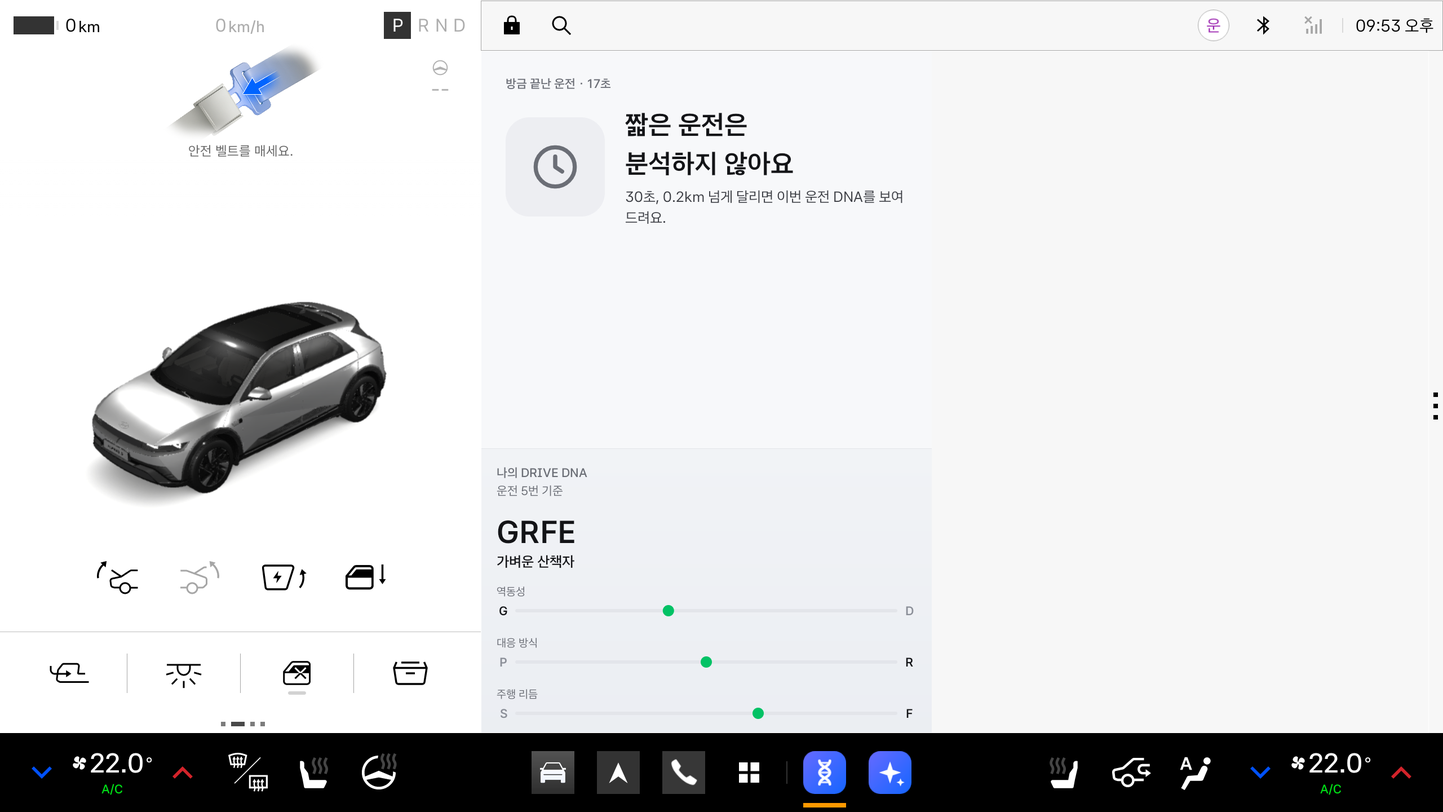
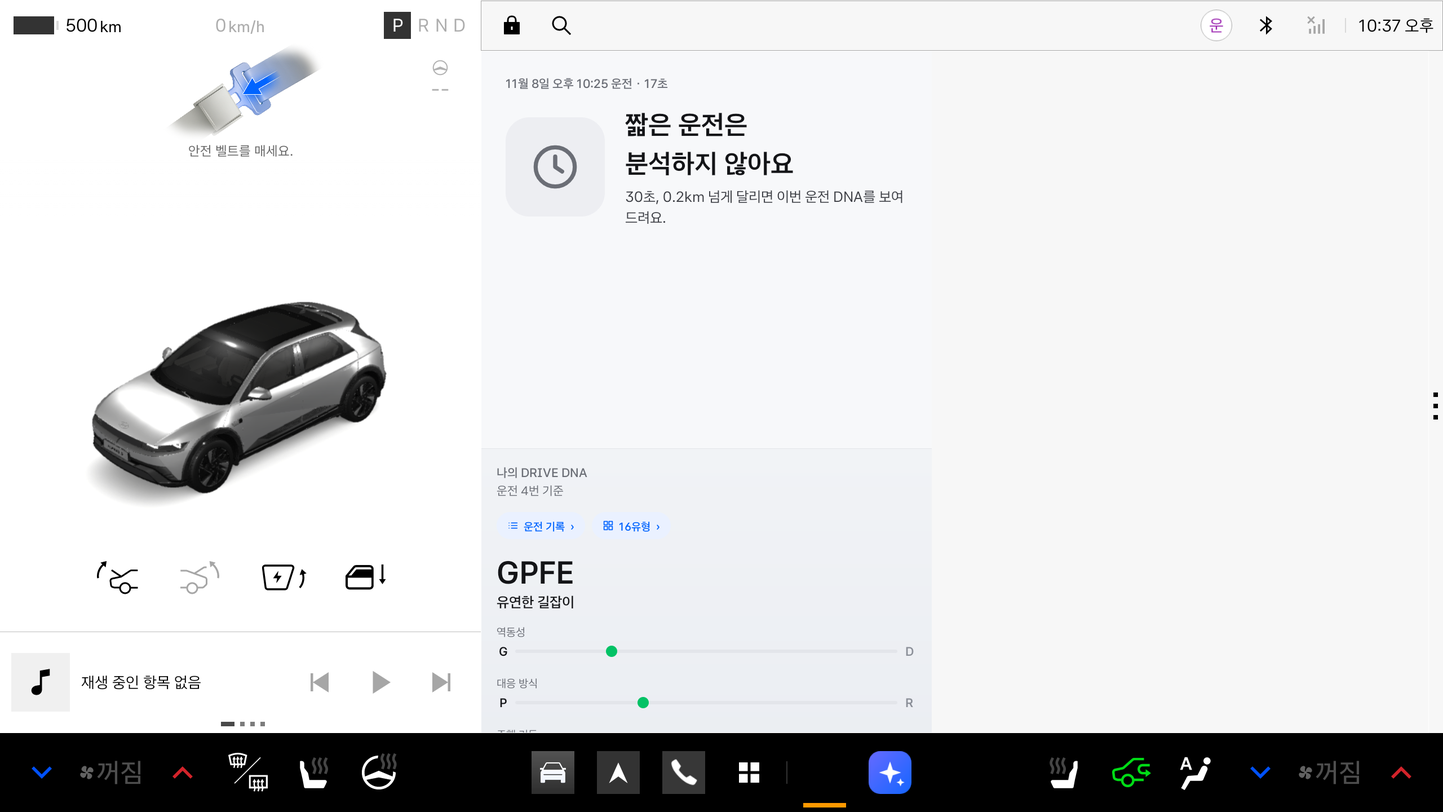
실행 중 찾은 문제 수정과 초보자용 사용설명서
- 세로 화면에서 나의 DNA 칸의 "운전 기록 ›"·"16유형 ›" 버튼을 머리 바로 밑에 둔다(맨 아래면 화면 밖으로 밀림)
- 끝난 지 10분이 지난 운전은 "방금 끝난 운전" 대신 그때 날짜·시각을 제목으로 쓴다
- 새 운전이 시작되면 지난 운전의 결과 알림을 지운다
- gentle 시나리오 설명의 소요 시간을 실제(약 2분 15초)에 맞춤
- 사용설명서.md: 네 글자 읽는 법, 화면별 설명, 판정 보류 이유, 자주 묻는 질문, 에뮬레이터 시연
- verification.md: 전체 시연(연속 실행) 결과, 실행 중 찾은 문제와 수정, 부팅 뒤 자동 시작 확인

diff --git a/app/src/main/java/kr/skku/drivedna/Screens.kt b/app/src/main/java/kr/skku/drivedna/Screens.kt
@@ -1,5 +1,6 @@
 package kr.skku.drivedna
 
+import android.content.res.Configuration
 import android.view.Gravity
 import android.view.View
 import android.view.ViewGroup.LayoutParams.WRAP_CONTENT
@@ -73,7 +74,7 @@ fun Ui.result(m: Metrics, axes: List<Axis>, diff: String?, title: String, top: V
 
 /** 짧은 운전. 기준 숫자는 [l]에서(시연용 빌드는 30초·0.2km) */
 fun Ui.short(m: Metrics, l: Limits): View = column(28,
-    small("방금 끝난 운전 · ${elapsed(m.durationMs)}"),
+    small("${driveTitle(m.endedAt)} · ${elapsed(m.durationMs)}"),
     hero(tile(R.drawable.ic_clock, Tile.GREY), "짧은 운전은\n분석하지 않아요",
         "${elapsed(l.minDriveMs)}, ${l.minDriveKm.toString().removeSuffix(".0")}km 넘게 달리면 이번 운전 DNA를 보여 드려요."),
 )
@@ -134,5 +135,9 @@ fun Ui.profile(p: Profile, driving: Boolean, onHistory: () -> Unit, onTypes: () 
         chip("운전 기록  ›", R.color.blue, R.color.blue_soft, R.drawable.ic_list).apply { setOnClickListener { onHistory() } },
         chip("16유형  ›", R.color.blue, R.color.blue_soft, R.drawable.ic_grid).apply { setOnClickListener { onTypes() } },
     ).onEach { it.isEnabled = !driving; it.alpha = if (driving) 0.4f else 1f } // 비활성 뷰는 덤프에 enabled="false"
-    return column(24, *listOfNotNull(head, type).toTypedArray(), *bars.toTypedArray(), row(12, *chips.toTypedArray()))
+    val buttons = row(12, *chips.toTypedArray())
+    // 세로 화면의 아래 칸은 낮아서, 버튼을 맨 아래에 두면 스크롤해야 보인다. 그때는 머리 바로 밑에 둔다
+    if (ctx.resources.configuration.orientation == Configuration.ORIENTATION_PORTRAIT)
+        return column(24, head, buttons, *listOfNotNull(type).toTypedArray(), *bars.toTypedArray())
+    return column(24, *listOfNotNull(head, type).toTypedArray(), *bars.toTypedArray(), buttons)
 }

diff --git a/app/src/main/java/kr/skku/drivedna/MainActivity.kt b/app/src/main/java/kr/skku/drivedna/MainActivity.kt
@@ -128,7 +128,7 @@ class MainActivity : Activity() {
         shownCode = Types.code(axes.map { it.value })
         val diff = Profile.difference(axes, Profile.of(analyzed.drop(i + 1), limits))
         val length = "${elapsed(m.durationMs)} · ${m.km.km1()}km"
-        if (openRecord == null) return ui.result(m, axes, diff, "방금 끝난 운전 · $length")
+        if (openRecord == null) return ui.result(m, axes, diff, "${driveTitle(m.endedAt)} · $length")
         val back = ui.chip("←  운전 기록", R.color.text2, R.color.chip).apply { setOnClickListener { openRecord = null; render() } }
         return ui.result(m, axes, diff, "${dayLabel(m.endedAt)} ${timeOfDay(m.endedAt)} 운전 · $length", ui.row(0, back))
     }

diff --git a/app/src/main/java/kr/skku/drivedna/Ui.kt b/app/src/main/java/kr/skku/drivedna/Ui.kt
@@ -27,6 +27,10 @@ fun dayLabel(ms: Long): String {
     return SimpleDateFormat(if (year(ms) == year(System.currentTimeMillis())) "M월 d일" else "yyyy년 M월 d일", Locale.KOREA).format(Date(ms))
 }
 
+/** 결과 제목 앞부분: 10분 안에 끝난 운전은 "방금 끝난 운전", 그 밖은 "{날짜} {시각} 운전"(앱을 나중에 다시 열었을 때) */
+fun driveTitle(endedAt: Long, now: Long = System.currentTimeMillis()) =
+    if (now - endedAt < 10 * 60_000) "방금 끝난 운전" else "${dayLabel(endedAt)} ${timeOfDay(endedAt)} 운전"
+
 /** 1분 미만은 초로: "40초", 그 밖은 "3분"(내림) */
 fun elapsed(ms: Long) = if (ms < 60_000) "${ms / 1000}초" else "${ms / 60_000}분"
 

diff --git a/app/src/test/java/kr/skku/drivedna/DnaTest.kt b/app/src/test/java/kr/skku/drivedna/DnaTest.kt
@@ -280,6 +280,13 @@ class TypesProfileCoachTest {
         assertTrue(Coach.line(calm.copy(early = 1)).startsWith("큰 회전 5번 중 4번은"))
     }
 
+    @Test fun titleSaysJustNowOnlyForRecentDrives() {
+        val now = 1_794_000_000_000
+        assertEquals("방금 끝난 운전", driveTitle(now - 5 * MINUTE, now))
+        assertTrue(driveTitle(now - 60 * MINUTE, now).endsWith(" 운전"))
+        assertFalse(driveTitle(now - 60 * MINUTE, now).startsWith("방금"))
+    }
+
     @Test fun recordsRoundTrip() {
         val a = m(0.2, 12.0).copy(endedAt = 1_794_000_000_000)
         val b = Metrics(endedAt = 5, durationMs = 15_000, km = 0.08) // 신호 없음·짧은 운전

diff --git a/app/src/main/java/kr/skku/drivedna/WatchService.kt b/app/src/main/java/kr/skku/drivedna/WatchService.kt
@@ -87,7 +87,10 @@ class WatchService : Service() {
         var changed = noSignal // 신호가 온다 = 연결됨
         noSignal = false
         val t = watcher.tracker
-        if (driving != t.notParked || recording != t.driving) { driving = t.notParked; recording = t.driving; changed = true }
+        if (driving != t.notParked || recording != t.driving) {
+            driving = t.notParked; recording = t.driving; changed = true
+            if (driving) getSystemService(NotificationManager::class.java).cancel(ID_RESULT) // "이번 운전" 알림이 지난 운전을 가리키지 않게
+        }
         if (changed) onUpdate?.invoke()
     }
 

diff --git a/사용설명서.md b/사용설명서.md
@@ -1,0 +1,200 @@
+# DRIVE DNA — 사용설명서
+
+> 운전을 마치고 P에 놓으면, 이번 운전이 어떤 성향이었는지 **네 글자**로 알려 드리는 Pleos Connect 앱이에요.
+
+![이번 운전 DNA 화면](docs/screenshots/03-result-gentle.png)
+
+## 이런 분께 맞아요
+
+- 내 운전 습관이 어떤지 궁금한 분
+- 점수를 매기는 앱은 부담스러운 분
+- 운전이 쌓이면서 내 운전이 어떻게 바뀌는지 보고 싶은 분
+
+DRIVE DNA는 운전을 **좋다·나쁘다로 가리지 않아요.** 점수도 순위도 없어요. 무엇을 보고 그렇게 판단했는지(관측 사실)를 먼저 보여 드리고, 근거가 모자라면 억지로 정하지 않아요.
+
+## 세 단계로 동작해요
+
+1. **평소처럼 운전하세요.** 주행 중에는 말하지도 화면을 바꾸지도 않아요. 주행거리, 브레이크, 핸들, 방향지시등, 배터리 같은 차 신호만 조용히 지켜봐요.
+2. **P에 놓으면 이번 운전 DNA.** 네 글자 유형과 그 근거, 한 가지 제안을 화면에 보여 드리고, 음성으로 한 번 짧게 알려 드려요.
+3. **쌓일수록 나의 DNA.** 최근 10번의 운전을 모아 "나의 DNA"를 보여 드리고, 이번 운전이 평소와 어떻게 달랐는지도 알려 드려요.
+
+## 네 글자 읽는 법
+
+네 글자는 네 가지 축을 차례로 나타내요. 축마다 두 글자 중 하나가 나와요.
+
+| 자리 | 축 | 앞 글자 | 뒤 글자 | 무엇을 보나요 |
+|---|---|---|---|---|
+| 첫째 | 역동성 | **G** 부드러움 | **D** 역동적 | 속도를 급하게 올리거나 줄인 횟수, 핸들을 빠르게 크게 돌린 횟수(10km당) |
+| 둘째 | 대응 방식 | **P** 예측형 | **R** 반응형 | 큰 회전 전에 방향지시등을 1.5초 이상 미리 켠 비율 |
+| 셋째 | 주행 리듬 | **S** 안정형 | **F** 유동형 | 달리는 동안 속도가 얼마나 자주 오르내렸는지 |
+| 넷째 | 운전 목적 | **E** 효율 | **C** 편안함 | 100km를 달린다면 쓰게 될 전기(kWh) |
+
+예를 들어 **GPSE**는 부드럽고(G), 방향지시등을 미리 켜고(P), 속도를 고르게 유지하고(S), 에너지를 아껴 쓴(E) 운전이에요. 별칭은 "차분한 계획가"예요.
+
+- **"·"는 판정 보류예요.** 근거가 모자라면 그 자리를 비워 둬요. 예를 들어 큰 회전이 거의 없던 운전은 대응 방식을 판단할 수 없어 "G·SE"처럼 나와요. 이유는 화면에 함께 적혀 있어요.
+- **막대는 어느 쪽에 가까운지 보여 줘요.** 점이 가운데에서 끝으로 갈수록 그 성향이 뚜렷해요.
+- **기준은 잠정값이에요.** 아직 많은 운전으로 검증하지 않은 값이라 화면에 "잠정 기준"이라고 적어 둬요.
+
+### 16가지 유형
+
+| | E 효율 | C 편안함 |
+|---|---|---|
+| **GPS** | GPSE 차분한 계획가 | GPSC 여유로운 크루저 |
+| **GPF** | GPFE 유연한 길잡이 | GPFC 느긋한 탐험가 |
+| **GRS** | GRSE 담백한 실속파 | GRSC 편안한 동반자 |
+| **GRF** | GRFE 가벼운 산책자 | GRFC 마음 편한 산책자 |
+| **DPS** | DPSE 정확한 페이스메이커 | DPSC 노련한 투어러 |
+| **DPF** | DPFE 민첩한 내비게이터 | DPFC 활기찬 탐험가 |
+| **DRS** | DRSE 경쾌한 실속파 | DRSC 시원한 크루저 |
+| **DRF** | DRFE 전략적 드라이버 | DRFC 자유로운 드라이버 |
+
+GPSE·GPSC·DRFE·DRFC 네 가지는 기획 보고서의 예시이고, 나머지 12가지는 이 앱이 지은 이름이에요.
+
+## 설치하고 처음 열기
+
+**필요한 것**: Pleos Connect가 들어간 차, 또는 Pleos Connect Emulator v2.1.0(Android API 34). 운전 목적 축(E/C)은 배터리 신호가 있는 전기차에서만 판정돼요.
+
+1. **설치**: 아직 Pleos App Market에는 없어서 APK 파일을 직접 설치해요. 컴퓨터에 차(또는 에뮬레이터)를 연결하고 아래를 실행하세요.
+
+   ```bash
+   adb install -r -g 앱파일.apk
+   ```
+
+   APK를 직접 만들려면 [README의 "빌드"](README.md#빌드)를 따르세요.
+2. **열기**: 앱 목록에서 **DRIVE DNA**를 누르세요. 에뮬레이터에서는 명령으로도 열 수 있어요.
+
+   ```bash
+   adb shell am start --user 10 -n kr.skku.drivedna/.MainActivity
+   ```
+
+3. **알림 허용**: 처음 열 때 알림 권한을 물어요. 허용하면 P에 놓았을 때 결과가 알림으로도 떠요.
+
+![첫 실행 화면](docs/screenshots/01-first-run.png)
+
+한 번 열어 두면 앱 화면을 닫아도 뒤에서 운전을 지켜봐요. 그동안 알림 영역에 "운전을 지켜보는 중"이 보여요. 차를 다시 켜면(부팅) 앱을 열지 않아도 알아서 시작해요.
+
+## 화면 둘러보기
+
+가로 화면은 왼쪽에 **나의 DNA**, 오른쪽에 **지금 상황**이 나와요. 세로 화면에서는 위가 지금 상황, 아래가 나의 DNA예요. 차의 라이트·다크 설정을 그대로 따라가요.
+
+### 운전 중
+
+기어가 D·N이면 Pleos가 "주행 중에는 사용할 수 없습니다"로 앱을 가리고, R이면 후방 카메라 화면이 덮어요. 앱 안에서도 "운전 중이에요"만 보이고, 나의 DNA 칸의 버튼은 흐려져 눌리지 않아요.
+
+![운전 중에는 Pleos가 앱을 가려요](docs/screenshots/02-driving.png)
+
+운전 도중에 앱을 처음 켰다면 그 운전은 기록하지 않아요("이번 운전은 기록하지 않아요. 다음 운전부터 지켜볼게요.").
+
+### P에 놓으면: 이번 운전 DNA
+
+위에서부터 이렇게 나와요.
+
+1. **작은 제목**: "방금 끝난 운전 · 2분 · 1.4km". 끝난 지 10분이 지난 뒤 앱을 열면 그 운전의 날짜와 시각이 나와요.
+2. **유형 카드**: 네 글자, 별칭, 네 글자의 이름(예: 부드러움 · 예측형 · 안정형 · 효율)
+3. **축 네 줄**: 축마다 관측 사실(예: "급가속 0번 · 급감속 0번 · 빠른 조향 0번")이 먼저, 판정 글자가 오른쪽에, 그 아래 막대가 나와요.
+4. **한 가지 제안**: 이번 운전에서 가장 두드러진 점 하나와 부드러운 제안. 특별히 두드러진 게 없으면 "눈에 띄는 급한 조작 없이 운전을 마쳤어요."
+5. **평소와 다른 점**: 나의 DNA와 크게 다른 축이 있으면 한 줄로 알려 드려요(예: "역동성이 평소보다 역동적 쪽이었어요.").
+
+음성으로 한 번 말하고(예: "이번 운전은 G P S E, 차분한 계획가 쪽이었어요."), 알림 "이번 운전 DNA: GPSE"가 떠요. 이 알림은 다음 운전을 시작하면 사라져요.
+
+![제안과 평소와 다른 점](docs/screenshots/05-result-dynamic-bottom.png)
+
+### 판정을 미룬 축
+
+근거가 모자란 축은 글자 대신 "·", 막대는 회색 점선이에요. 왜 미뤘는지 한 줄로 알려 드려요.
+
+| 이유 문장 | 이런 때 |
+|---|---|
+| 큰 회전이 적어 판정을 미뤘어요 | 핸들을 크게 돌린 회전이 적은 운전(직진 위주) |
+| 거리가 짧아 판정을 미뤘어요 | 달린 거리가 짧은 운전 |
+| 움직인 시간이 짧아 판정을 미뤘어요 | 서 있던 시간이 대부분인 운전 |
+| 배터리 사용량을 알 수 없어 판정을 미뤘어요 | 배터리 신호가 없는 차(전기차가 아님)이거나 배터리가 줄지 않은 운전 |
+| 조향 신호가 없어 / 조향·방향지시등 신호가 없어 판정을 미뤘어요 | 차가 그 신호를 주지 않을 때 |
+| 주행거리 값이 거칠어 판정을 미뤘어요 | 누적 주행거리가 아주 큰 차(아래 "자주 묻는 질문") |
+
+![판정 보류가 있는 결과](docs/screenshots/10-result-withheld.png)
+
+### 짧은 운전
+
+3분 또는 1km가 안 되는 운전은 분석하지 않아요. "짧은 운전은 분석하지 않아요"와 운전 길이만 보이고, 음성이 없으며 운전 기록 목록에도 나오지 않아요.
+
+### 나의 DNA 칸
+
+- 최근 10번의 분석된 운전을 축마다 평균 내서 보여 줘요. 운전이 한 번뿐이면 그 운전과 같아요.
+- 위에는 "운전 n번 기준", 가운데에는 네 글자와 별칭, 아래에는 축 막대 네 개가 있어요.
+- **운전 기록 ›**, **16유형 ›** 버튼으로 다른 페이지를 열어요. 세로 화면에서는 이 버튼이 칸 위쪽에 있어요.
+
+### 운전 기록과 다시 보기
+
+**운전 기록 ›**을 누르면 분석된 운전이 날짜별로(최신이 위) 나와요. 줄을 누르면 그 운전의 결과를 다시 볼 수 있어요. 다시 볼 때는 저장된 관측값을 지금 기준으로 다시 판정하고, 평소와 다른 점은 그 운전 전까지의 나의 DNA와 비교해요. "←  운전 기록"이나 뒤로 가기로 목록에 돌아가요.
+
+| 목록 | 다시 보기 |
+|---|---|
+| ![운전 기록](docs/screenshots/06-history.png) | ![다시 보기](docs/screenshots/07-record.png) |
+
+### 16유형 표
+
+**16유형 ›**을 누르면 네 축의 뜻과 16가지 유형이 나와요. 나의 DNA는 **초록** 테두리, 열기 직전에 보던 운전은 **파랑** 테두리예요. 판정을 미룬 축이 있으면 맞는 유형을 모두 표시해요.
+
+![16유형 표](docs/screenshots/08-types.png)
+
+## 알아 두면 좋은 규칙
+
+- 결과와 음성은 **P에 놓은 뒤에만** 나와요. 운전 중에는 말하지 않아요.
+- 3분 또는 1km가 안 되는 운전은 분석하지 않아요.
+- 한 번의 운전은 길·날씨·교통에 따라 흔들려요. 내 성향은 여러 운전을 모은 **나의 DNA**로 보세요.
+- 서 있거나 후진하며 돌린 핸들(주차)은 회전으로 세지 않아요.
+- 핸들을 90° 이상 돌린 경우만 "큰 회전"으로 세요.
+
+## 자주 묻는 질문
+
+**점수나 등급이 있나요?**
+없어요. 유형은 좋고 나쁨이 아니라 운전 습관을 설명하는 이름이에요.
+
+**방향지시등을 켰는데 R(반응형)이 나와요.**
+회전을 시작하기 **1.5초 이상 전에** 켜야 "미리 켰다"로 세요. 핸들을 돌리면서 켜면 미리 켠 것으로 보지 않아요.
+
+**전기차가 아니에요.**
+배터리 신호가 없으면 운전 목적 축(E/C)은 "·"로 보류돼요. 나머지 세 축은 그대로 판정해요.
+
+**역동성과 주행 리듬이 늘 보류돼요.**
+이 앱은 차속 신호가 없어 주행거리 변화로 속도를 추정해요. 차가 주는 주행거리 값의 정밀도 때문에, 누적 주행거리가 약 32,768km를 넘는 차에서는 속도를 믿을 만하게 추정할 수 없어 이 두 축을 보류해요.
+
+**기록은 어디에 남나요?**
+차 안의 앱 저장소에만 최근 100개가 남아요. 위치나 경로는 모으지 않고, 밖으로 보내지도 않아요. 앱을 지우면 기록도 함께 지워져요.
+
+**지난 운전을 다시 보니 처음과 결과가 달라요.**
+다시 보기는 저장된 관측값을 지금 기준으로 다시 판정해요. 앱이 업데이트되어 기준이 바뀌면 결과가 달라질 수 있어요.
+
+**화면 위에 빨간 띠 "차 신호를 받지 못하고 있어요"가 보여요.**
+차와 연결되지 않았다는 뜻이에요. 앱이 10초마다 다시 연결해요. 계속 보이면 앱을 다시 열어 보세요.
+
+## 에뮬레이터에서 해 보기
+
+에뮬레이터의 Virtual Console은 속도를 줘도 **주행거리를 늘리지 않아요.** 그래서 콘솔 페이지에서 손으로 운전하면 대부분 "짧은 운전"으로 끝나요. 대신 운전을 흉내 내는 시연 스크립트를 쓰세요(Python 3 필요).
+
+```bash
+adb forward tcp:8088 tcp:8088           # 에뮬레이터를 켤 때마다
+python3 scripts/demo.py reset           # 처음 상태로(앱 기록 삭제)
+python3 scripts/demo.py gentle          # 부드러운 운전 약 2분 15초
+```
+
+| 시나리오 | 어떤 운전 | 나오는 결과 |
+|---|---|---|
+| `gentle` | 천천히 출발하고, 방향지시등을 미리 켜고 회전 | GPSE 차분한 계획가 |
+| `dynamic` | 급출발·급정거, 방향지시등 없이 빠른 회전 | DRFC 자유로운 드라이버 |
+| `city` | 서고 가기를 되풀이, 방향지시등은 미리 켬 | GPFE 유연한 길잡이 |
+| `straight` | 회전 없이 곧게 | G·SE(대응 방식 보류) |
+| `short` | 15초 운전 | 짧은 운전 |
+
+알아 둘 점:
+- 시연용(디버그) 빌드는 짧은 운전 기준이 30초·0.2km로 낮아요. 시간은 실제로 흘러요.
+- 스크립트를 돌릴 때는 브라우저의 콘솔 페이지(`127.0.0.1:8088`)를 닫아 두세요. 열려 있으면 페이지에 남은 상태가 차에 다시 들어가 결과가 틀어질 수 있어요.
+- 시나리오가 끝나면 P에서 결과 화면과 음성이 나와요. 시나리오를 차례로 돌리면 나의 DNA와 운전 기록이 쌓이는 것도 볼 수 있어요.
+
+## 알아 두면 좋은 한계
+
+- 속도는 주행거리 변화로 **추정**해요. 실제 차에서 주행거리 신호가 어떻게 오는지는 아직 확인하지 못했어요.
+- 대응 방식(P/R)은 주변 차·차선 정보가 없어 **방향지시등을 미리 켰는지만** 봐요. 예측 능력 자체를 판정하지는 않아요.
+- 운전 목적(E/C)은 **전기 사용량만** 봐요. 길·기온·속도의 영향을 많이 받아요.
+- 운전자를 구분하지 않고 한 사람으로 봐요.

diff --git a/specs/001-drive-dna/verification.md b/specs/001-drive-dna/verification.md
@@ -6,13 +6,13 @@
 
 ## 단위 테스트
 
-`./gradlew :app:testDebugUnitTest` → 32개, 실패 0(코드 리뷰 반영 뒤)
+`./gradlew :app:testDebugUnitTest` → 33개, 실패 0(코드 리뷰와 실행 중 찾은 문제 반영 뒤)
 
 | 묶음 | 수 | 내용 |
 |---|---|---|
 | TrackerTest | 18 | 속도 추정·움직인 시간, 줄어든 주행거리, 급가감속과 히스테리시스, 0.2초 쓰기·1.02초 전달, 큰 회전, 미리 켠 신호(P에서 켰다 끈 것·방향 바꿈 포함), 빠른 조향, 주차 조작 제외, 거친 주행거리, 브레이크, 전력, 운전 도중 시작, 신호 없음 |
 | JudgeTest | 4 | 글자와 경계, 조건별 보류 이유(거리 내림 표기 포함), 신호 없음의 이유와 관측 문장, 짧은 운전 |
-| TypesProfileCoachTest | 5 | 별칭·보류 안내·맞는 유형·음성 문장, 나의 DNA 평균, 차이 줄과 동점, 코칭과 동점, 기록 형식 |
+| TypesProfileCoachTest | 6 | 별칭·보류 안내·맞는 유형·음성 문장, 나의 DNA 평균, 차이 줄과 동점, 코칭과 동점, 결과 제목(방금/그때 시각), 기록 형식 |
 | ScenarioTest | 5 | `scripts/scenarios`의 gentle·dynamic·city·straight·short 재생 |
 
 ## 에뮬레이터 시나리오
@@ -50,6 +50,36 @@
 | 12-short | 짧은 운전 |
 | 13-dark, 14-portrait | 다크, 세로 |
 
+## 전체 시연(연속 실행, 2026-11-09 15:15~15:26)
+
+`reset` → `gentle` → `dynamic` → `city` → `straight` → 16유형 → 운전 기록·다시 보기 → `short`를 한 번에 이어서 돌렸다. 화면 넘기기(16유형, 기록, 다시 보기, 닫기)는 덤프로 글자를 찾아 눌렀다.
+
+| 시나리오 | 지표 | 결과 | 음성 |
+|---|---|---|---|
+| `gentle` | 135초, 1.48km, 급가속·급감속·빠른 조향 0, 큰 회전 2(미리 2), 속도 변동 0.277, 6.8kWh | GPSE 차분한 계획가, 코칭 기본 | 1 |
+| `dynamic` | 67초, 0.64km, 급가속 5·급감속 5·빠른 조향 4, 큰 회전 2(미리 0), 속도 변동 0.559, 31.2kWh | DRFC 자유로운 드라이버, 코칭 급감속, 차이 줄 "역동성이 평소보다 역동적 쪽이었어요." | 1 |
+| `city` | 133초, 0.69km, 급한 조작 0, 큰 회전 3(미리 3), 속도 변동 0.448, 14.5kWh | GPFE 유연한 길잡이, 코칭 속도 변동 | 1 |
+| `straight` | 125초, 1.43km, 큰 회전 0, 속도 변동 0.275, 7.0kWh | G·SE(대응 방식 보류), 16유형에서 GPSE·GRSE 강조 | 1(보류 문장) |
+| `short` | 17초, 0.06km | 짧은 운전, 기록 목록에 없음 | 0 |
+
+- 끝난 뒤 나의 DNA는 "운전 4번 기준 GPFE"였다. 앱 경고·오류 로그 0건, 크래시 0건, 결과 알림은 마지막 분석 운전("이번 운전 DNA: G·SE")이었다.
+
+## 실행하며 찾은 문제와 수정
+
+| 문제 | 언제 | 수정 | 확인 |
+|---|---|---|---|
+| 시연 스크립트가 소수 속도를 보내 콘솔이 `invalid_speed`(400)로 거부 | 첫 미리 보기 | 속도를 정수로 보냄 | 이후 모든 시나리오 |
+| `dynamic`의 감속 한 구간(−3.5m/s²)이 기준 근처라 급감속 수와 코칭이 실행마다 갈림 | 에뮬레이터 1차 | 80→20km/h(−4.2m/s²)로 바꿈 | 이후 세 번 모두 급가속 5·급감속 5, 코칭 급감속 |
+| 회전 0번일 때 "큰 회전 0번 중 0번은…" | `straight` 1차 | "큰 회전 0번"으로 줄임 | 단위 테스트 |
+| 세로 화면에서 나의 DNA 칸의 "운전 기록 ›"·"16유형 ›"이 칸 아래로 밀려 스크롤해야 보임(자동 조작이 못 찾음) | 세로 확인 | 세로에서는 버튼을 머리 바로 밑에 둠 | 덤프에서 버튼이 화면 안(세로 908~956) |
+| 앱을 다시 열면 오래된 운전도 "방금 끝난 운전"으로 나옴 | 재시작 확인 | 끝난 지 10분이 지났으면 "{날짜} {시각} 운전" | 에뮬레이터("11월 8일 오후 10:25 운전 · 17초"), 단위 테스트 |
+| 짧은 운전 뒤에도 앞 운전의 "이번 운전 DNA" 알림이 남음 | 전체 시연 | 다음 운전이 시작되면 결과 알림을 지움 | `dynamic` 뒤 1건 → `short`의 D에서 0건 |
+| `gentle` 시나리오 설명의 소요 시간(약 2분 10초)이 실제(2분 15초)와 다름 | 전체 시연 | 설명을 고침 | — |
+
+앱 밖의 문제도 하나 있었다. 확인 도중 에뮬레이터가 그래픽 오류(`Failed to find ColorBuffer`)로 죽었고, 직전에 설치한 APK가 기기 안에서 깨져(`base.apk is not zip`) 부팅 때 앱이 건너뛰어졌다. 다시 설치해 풀었다. 이 덕분에 아래 "부팅 뒤 자동 시작"을 확인했다.
+
+- **부팅 뒤 자동 시작**: `adb reboot` 뒤 앱을 열지 않아도 `WatchService`가 포그라운드로 돌고 "운전을 지켜보는 중" 알림이 있다.
+
 ## 구현 중 바뀐 것
 
 - **dynamic 시나리오의 감속 한 구간**: 시속 80→30km를 4초(−3.5m/s²)에서 80→20km(−4.2m/s²)로 바꿨다. −3.5m/s²는 2초 창 추정에서 기준(−3.0)에 가까워, 실행마다 급감속으로 잡히기도 하고 아니기도 해서 코칭이 급감속·급가속으로 갈렸다(위 1차). 바꾼 뒤 5·5로 나오고 코칭은 급감속(같은 비율이면 표 순서)이다. DnaTest 재생도 같은 결과다.
@@ -76,7 +106,6 @@
 
 - **차 연결 실패 띠**: Vehicle 초기화 실패를 에뮬레이터에서 만들 수 없어 띠가 뜨는 것은 보지 못했다. 첫 앱과 같은 코드 경로다.
 - **실차**: 주행거리의 해상도와 전달 주기, 조향각·방향지시등 값이 에뮬레이터와 같은지 모른다. 주행거리가 0.1km 단위로만 오면 2초 창 속도 추정이 거칠어져 급가속·급감속을 놓치거나 과장할 수 있다.
-- **부팅 뒤 자동 시작**(`BootReceiver`): 에뮬레이터를 다시 켜 보지 않았다.
 - **음성 소리**: TTS 로그로만 확인했다.
 - **출시 빌드 기준**(3분·1km·2km·회전 3번): 단위 테스트로만 확인했다. 시연 시나리오는 디버그 빌드 기준이다.
 - **App Market 심사**: 상시 포그라운드 서비스(`specialUse`)가 허용되는지 모른다.

diff --git a/specs/001-drive-dna/contracts/ui.md b/specs/001-drive-dna/contracts/ui.md
@@ -111,9 +111,9 @@
 |---|---|---|---|
 | 첫 실행 | DRIVE DNA | 운전이 끝나면 / 이번 운전의 성향을 / 보여 드려요 | 단계 ① 평소처럼 운전하세요 — 브레이크·핸들·방향지시등·속도·전력 신호를 지켜봐요 ② P에 놓으면 이번 운전 DNA — 네 가지 축과 근거, 코칭 한 줄 ③ 쌓일수록 나의 DNA — 기록은 이 차 안에만 남아요 |
 | 주행 중(상황 칸) | — | 운전 중이에요 | 아래 글자 "운전이 끝나면 이번 운전 DNA를 보여 드릴게요." 앱이 운전 도중에 켜져 세지 않는 운전이면 "이번 운전은 기록하지 않아요. 다음 운전부터 지켜볼게요." 띠 "주행 중에는 말하지도, 화면을 바꾸지도 않아요". 나의 DNA 칸은 §7 |
-| 이번 운전 | 방금 끝난 운전 · {m}분 · {km}km | {코드} / {별칭 또는 보류 안내} | 유형 카드의 한 줄 설명(§4), 축 줄 4개, 코칭 카드(제목 "한 가지 제안"), 차이 줄, 안내 "잠정 기준 · 속도는 주행거리로 추정했어요" |
+| 이번 운전 | 방금 끝난 운전 · {m}분 · {km}km(끝난 지 10분이 지났으면 "{M}월 {d}일 {오전/오후} {h:mm} 운전") | {코드} / {별칭 또는 보류 안내} | 유형 카드의 한 줄 설명(§4), 축 줄 4개, 코칭 카드(제목 "한 가지 제안"), 차이 줄, 안내 "잠정 기준 · 속도는 주행거리로 추정했어요" |
 | 다시 보기 | {M}월 {d}일 {오전/오후} {h:mm} 운전 · {m}분 · {km}km | (이번 운전과 같음) | 위쪽 "←  운전 기록" 칩. 판정은 저장된 지표를 지금 기준으로 다시 낸 것이고, 차이 줄은 그 운전보다 앞선 분석된 기록 10개의 나의 DNA와 비교한다 |
-| 짧은 운전 | 방금 끝난 운전 · {길이} | 짧은 운전은 / 분석하지 않아요 | "{기준 길이}, {기준 거리}km 넘게 달리면 이번 운전 DNA를 보여 드려요." 숫자는 limits에서 채운다(출시 "3분, 1km", 시연용 "30초, 0.2km") |
+| 짧은 운전 | 방금 끝난 운전 · {길이}(10분이 지났으면 이번 운전과 같이 그때 시각) | 짧은 운전은 / 분석하지 않아요 | "{기준 길이}, {기준 거리}km 넘게 달리면 이번 운전 DNA를 보여 드려요." 숫자는 limits에서 채운다(출시 "3분, 1km", 시연용 "30초, 0.2km") |
 | 운전 기록 | 지난 운전 | 운전 기록 | "✕  닫기" 칩. 날짜 머리 "{M}월 {d}일", 줄 "{오전/오후 h:mm} · {코드} · {별칭} · {km}km". 없으면 "아직 분석된 운전이 없어요" |
 | 16유형 | 유형 표 | 16가지 DRIVE DNA | "✕  닫기" 칩. 축 설명 4줄, 유형 칸 16개(코드, 별칭). 나의 유형(초록 테두리), 이번 운전 유형(파랑 테두리, 열기 직전에 보던 결과나 다시 보기의 유형이고 없으면 생략). 같은 칸이면 초록. 보류 축이 있는 코드는 맞는 유형을 모두 강조. 아래에 색 설명 "나의 DNA"·"이번 운전" |
 
@@ -127,7 +127,7 @@
 - **유형**: 큰 코드와 별칭(또는 보류 안내)
 - **축 막대 4개**: 이름, 양 끝 글자, 위치 점, 보류는 회색
 - **버튼**: "운전 기록 ›"과 "16유형 ›" 칩. 이 칸이 만들고(`Ui.profile(p, driving, onHistory, onTypes)`), 주행 중에는 흐리게 하고 비활성이다.
-- 칸은 스크롤된다(세로 화면의 아래 칸이 좁을 때).
+- 칸은 스크롤된다(세로 화면의 아래 칸이 좁을 때). 세로 화면에서는 버튼을 머리 바로 밑에 둔다(맨 아래면 스크롤해야 보인다).
 - 주행 중에도 이 칸은 보인다. 운전 전 내용 그대로이고, 운전이 끝나 새 기록이 생길 때만 바뀐다.
 
 ## 8. 음성 (분석된 운전이 끝날 때 한 번)
@@ -138,5 +138,5 @@
 
 ## 9. 알림(시스템)
 
-- 제목 "이번 운전 DNA: {코드}", 본문은 음성 문장이다. 누르면 앱이 열린다.
+- 제목 "이번 운전 DNA: {코드}", 본문은 음성 문장이다. 누르면 앱이 열린다. 다음 운전이 시작되면 지운다(지난 운전을 "이번 운전"으로 가리키지 않게).
 - 상시 서비스 알림은 "운전을 지켜보는 중"이다.

diff --git a/README.md b/README.md
@@ -4,6 +4,8 @@
 
 ![이번 운전 DNA](docs/screenshots/03-result-gentle.png)
 
+처음 쓰는 분은 [사용설명서](사용설명서.md)를 먼저 보세요. 이 README는 빌드·시연·설계 문서를 다룹니다.
+
 ## 네 개 축 (잠정 기준)
 
 | 축 | 앞 / 뒤 | 보는 것 |
